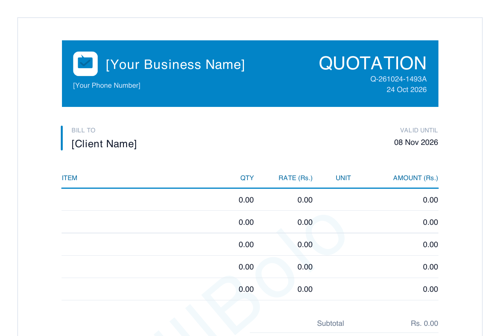
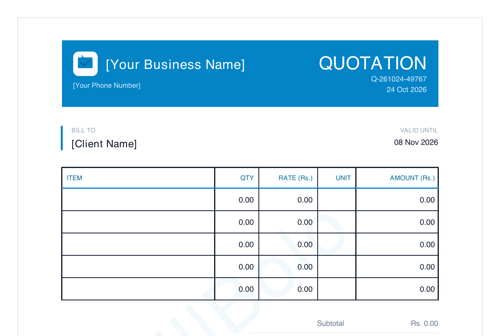
Add proper thick borders and real reference fields to all templates
Reviewed the actual Word/Excel reference templates (not just the PDFs
checked earlier) and found two real gaps: our borders were too thin/
subtle compared to the fill-in-form convention real quotation templates
use, and we were missing fields present in every reference sample
(Description of Work section, SGST/CGST split instead of flat GST,
Amount in Words, a Discount line).

- PDF: Bold/Formal/Compact themes now use a visible GRID border around
  every cell (Minimal intentionally keeps its thin-rule look, as the
  one deliberately understated option among four).
- Word/Excel: full thick-bordered boxes throughout, Description of Work
  field added, GST split into SGST+CGST (matches real Indian
  convention), Discount line and Amount in Words field added.
- Regenerated all 6 gallery thumbnails from the updated files.

Changed region(s): [[0.12, 0.4762, 0.9, 0.8929], [0.75, 0.2083, 0.87, 0.2679]]

diff --git a/src/services/pdf_generator.py b/src/services/pdf_generator.py
@@ -348,9 +348,13 @@ class PDFGenerator:
 
     def _build_items_table(self, extracted_data: ExtractedData) -> Table:
         """Build the line items table. "Formal" theme gets a solid colored
-        header row (white text); other themes keep thin rules, no heavy fill."""
+        header row (white text). Minimal keeps its thin-rule, no-grid look
+        by design; Bold/Formal/Compact get a visible full grid (thicker
+        boxed cell borders), matching the fill-in-form convention real
+        quotation templates use rather than looking under-structured."""
         fs = self.theme.font_scale
         is_formal = self.theme.header_style == "formal"
+        is_minimal = self.theme.header_style == "minimal"
         table_data = [["ITEM", "QTY", "RATE (Rs.)", "UNIT", "AMOUNT (Rs.)"]]
         for item in extracted_data.items:
             table_data.append([
@@ -372,18 +376,22 @@ class PDFGenerator:
             ("FONT", (0, 0), (-1, 0), "Helvetica-Bold", 8 * fs),
             ("ALIGN", (1, 0), (-1, -1), "RIGHT"),
             ("ALIGN", (0, 0), (0, -1), "LEFT"),
-            ("LINEBELOW", (0, 1), (-1, n_rows - 1), 0.5, self.BORDER),
             ("FONT", (0, 1), (-1, -1), "Helvetica", 9.5 * fs),
             ("TEXTCOLOR", (0, 1), (-1, -1), self.TEXT_DARK),
             ("TOPPADDING", (0, 0), (-1, -1), row_pad),
             ("BOTTOMPADDING", (0, 0), (-1, -1), row_pad),
-            ("LEFTPADDING", (0, 0), (0, -1), 6 if is_formal else 0),
-            ("RIGHTPADDING", (-1, 0), (-1, -1), 6 if is_formal else 0),
+            ("LEFTPADDING", (0, 0), (0, -1), 6),
+            ("RIGHTPADDING", (-1, 0), (-1, -1), 6 if is_formal else 4),
         ]
+        if is_minimal:
+            style.append(("LINEBELOW", (0, 1), (-1, n_rows - 1), 0.5, self.BORDER))
+            style.append(("LINEBELOW", (0, 0), (-1, 0), 1.5, self.BRAND_PRIMARY))
+        else:
+            style.append(("GRID", (0, 0), (-1, -1), 1.1, self.TEXT_DARK))
+            if not is_formal:
+                style.append(("LINEBELOW", (0, 0), (-1, 0), 1.5, self.BRAND_PRIMARY))
         if is_formal:
             style.append(("BACKGROUND", (0, 0), (-1, 0), self.BRAND_DARK))
-        else:
-            style.append(("LINEBELOW", (0, 0), (-1, 0), 1.5, self.BRAND_PRIMARY))
         table.setStyle(TableStyle(style))
         return table
 
